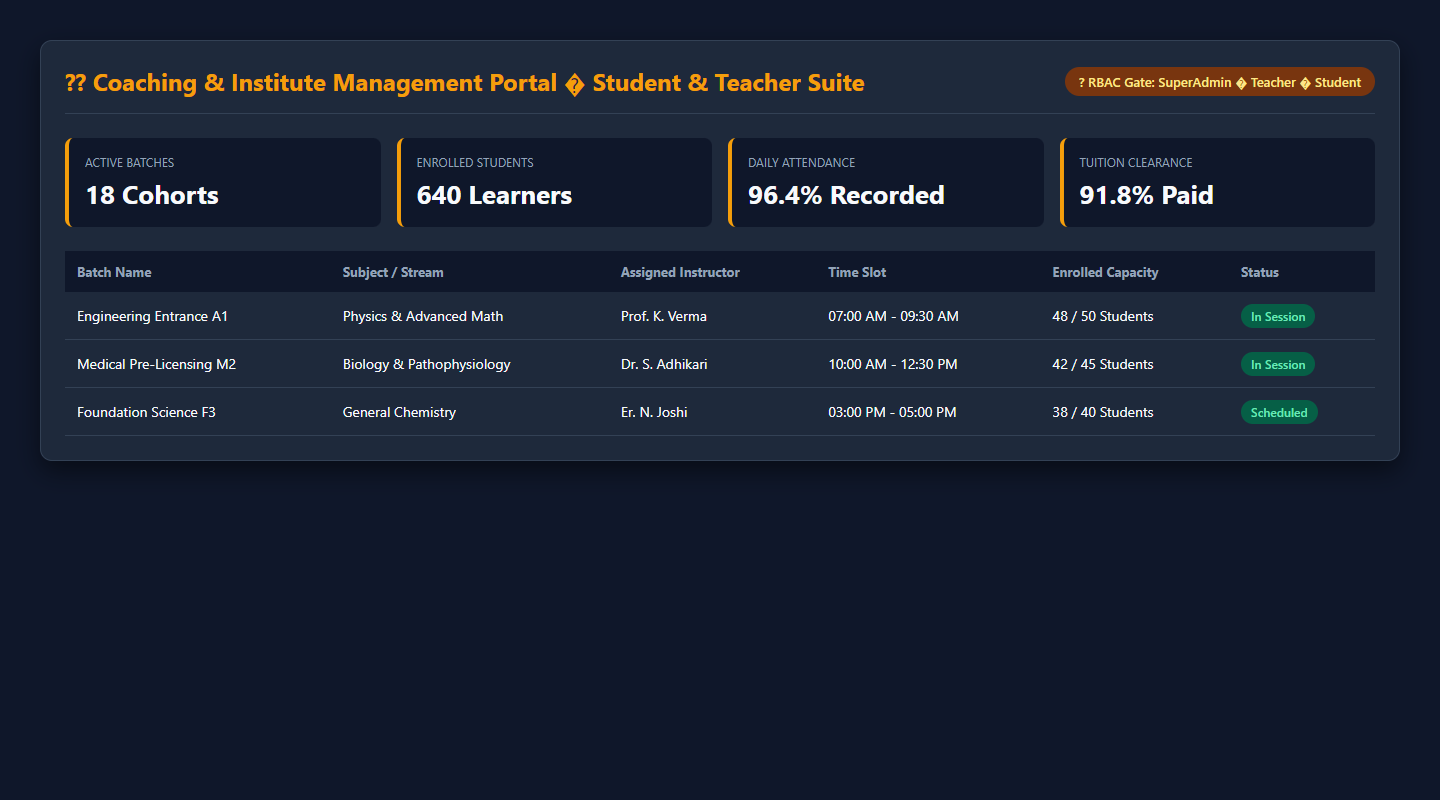
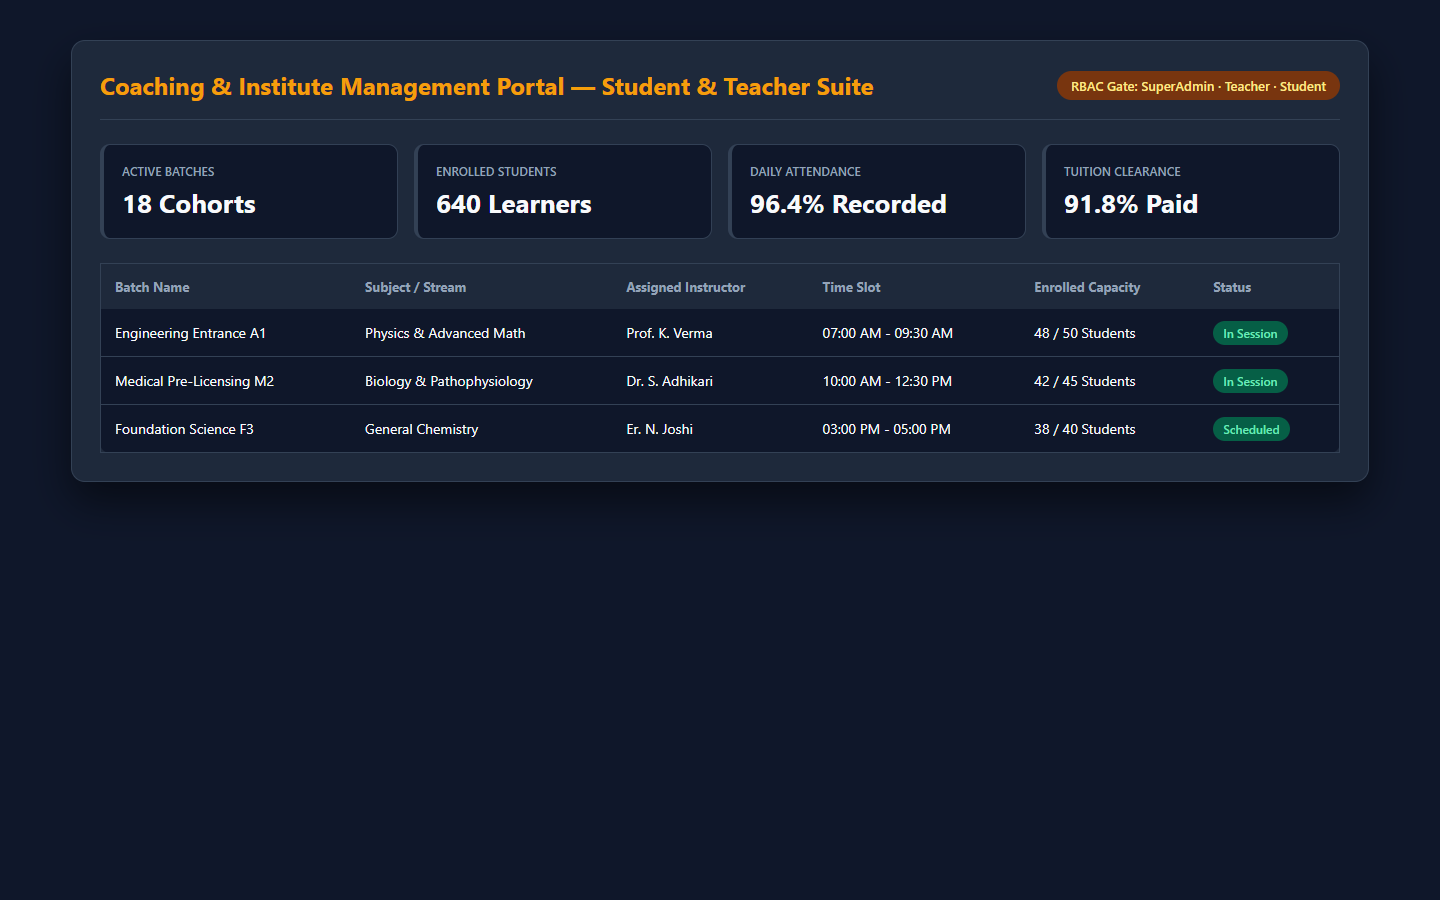
fix(docs): update verified high-resolution application screenshots and clean markdown encoding

diff --git a/README.md b/README.md
@@ -10,7 +10,7 @@
 
 ---
 
-## ?? Application Screenshot & Interface Preview
+## Application Screenshot & Interface Preview
 
 <div align="center">
   <img src="./assets/screenshot.png" alt="Application Interface Preview" width="850" style="border-radius: 8px; box-shadow: 0 4px 20px rgba(0,0,0,0.15);" />
